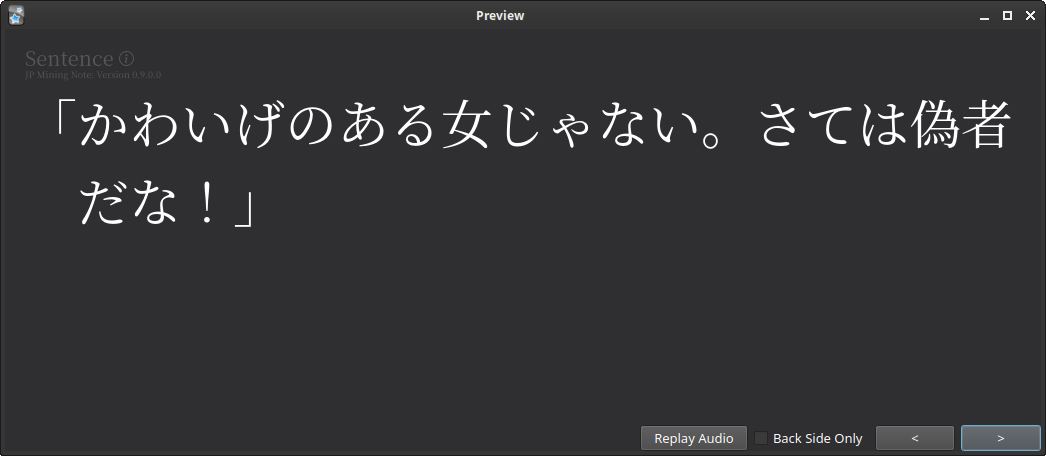
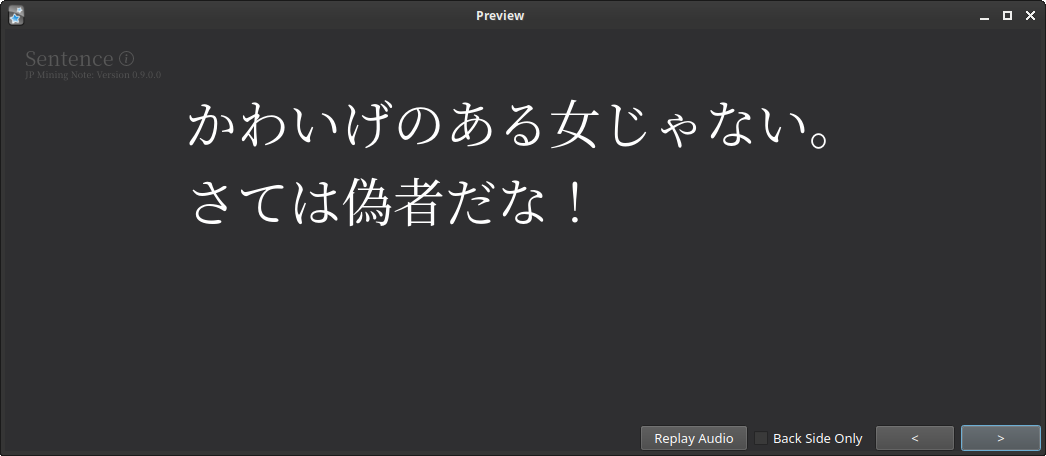
updated blank sentence again

Changed region(s): [[0.0612, 0.2149, 0.979, 0.3377], [0.0612, 0.3684, 0.5507, 0.4912]]

diff --git a/wiki/CardTypes.md b/wiki/CardTypes.md
@@ -75,7 +75,7 @@ Nothing has to be done for the card to be a vocab card.
 
 ## Sentence Card
 
-[[assets/nisemono_altdisplay_newline.png]]
+[[assets/nisemono_sentence_blank.png]]
 
 A sentence card simply shows the entire sentence at the front.
 You test yourself on the reading and meaning of the entire sentence.
